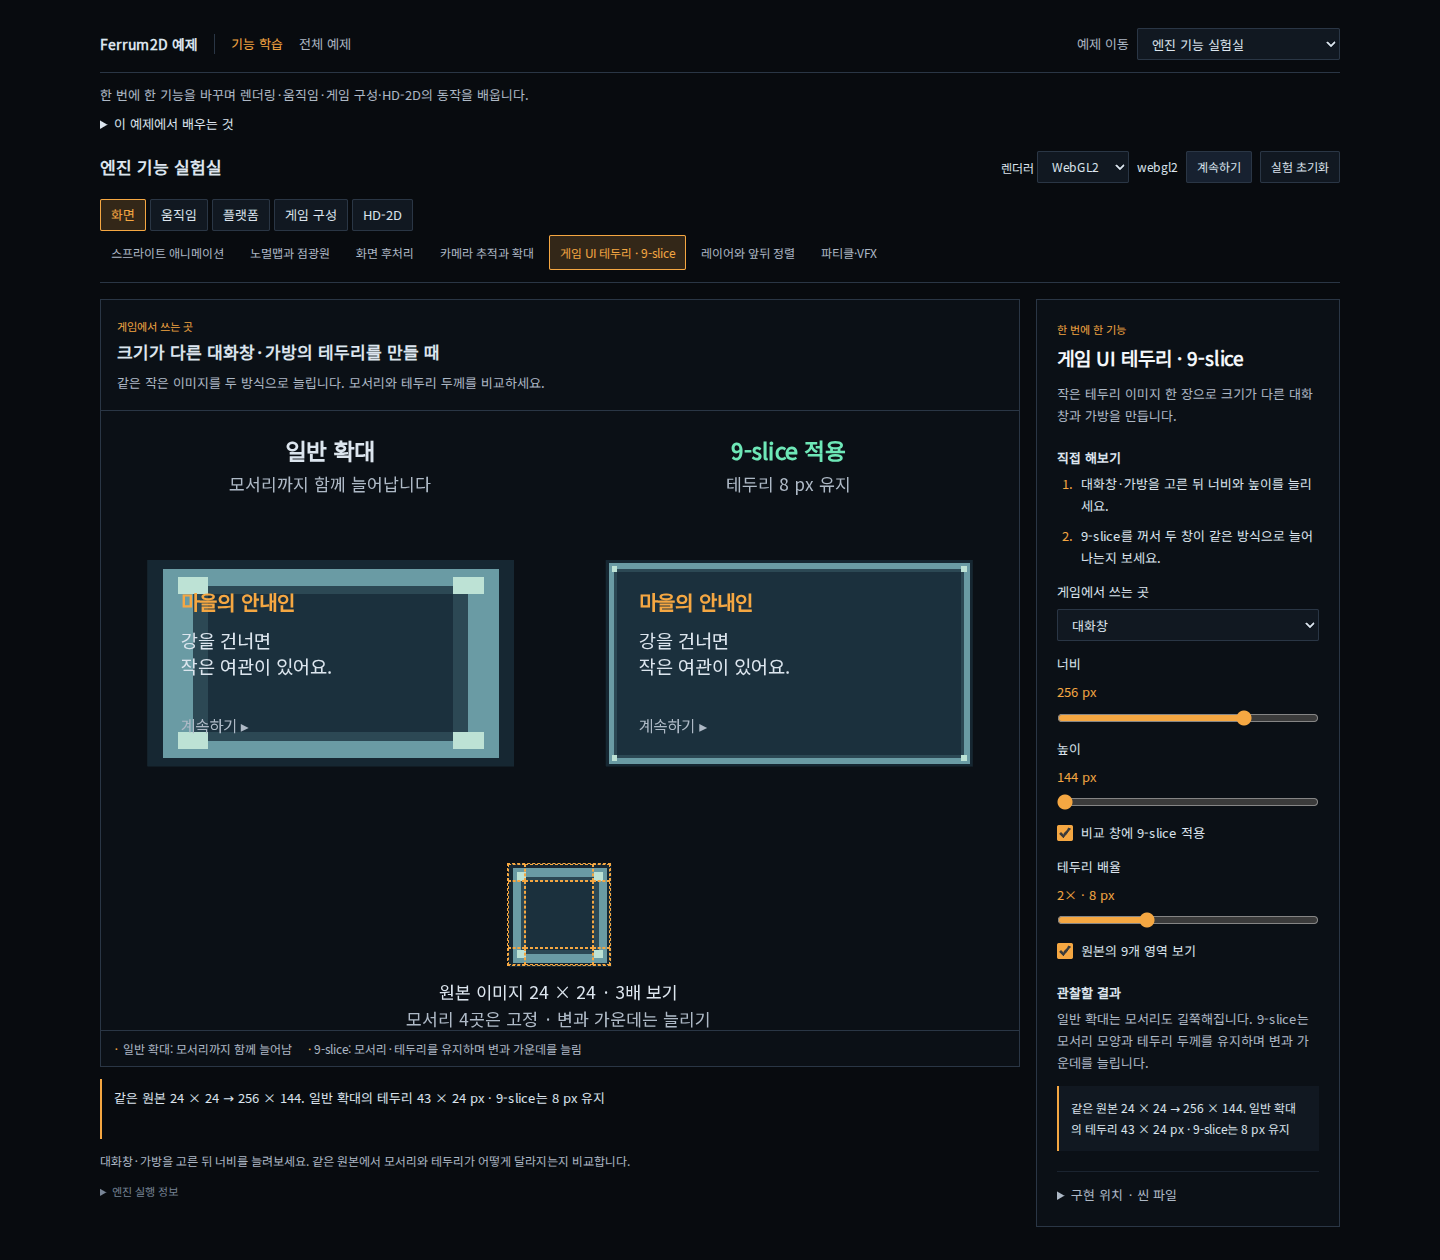
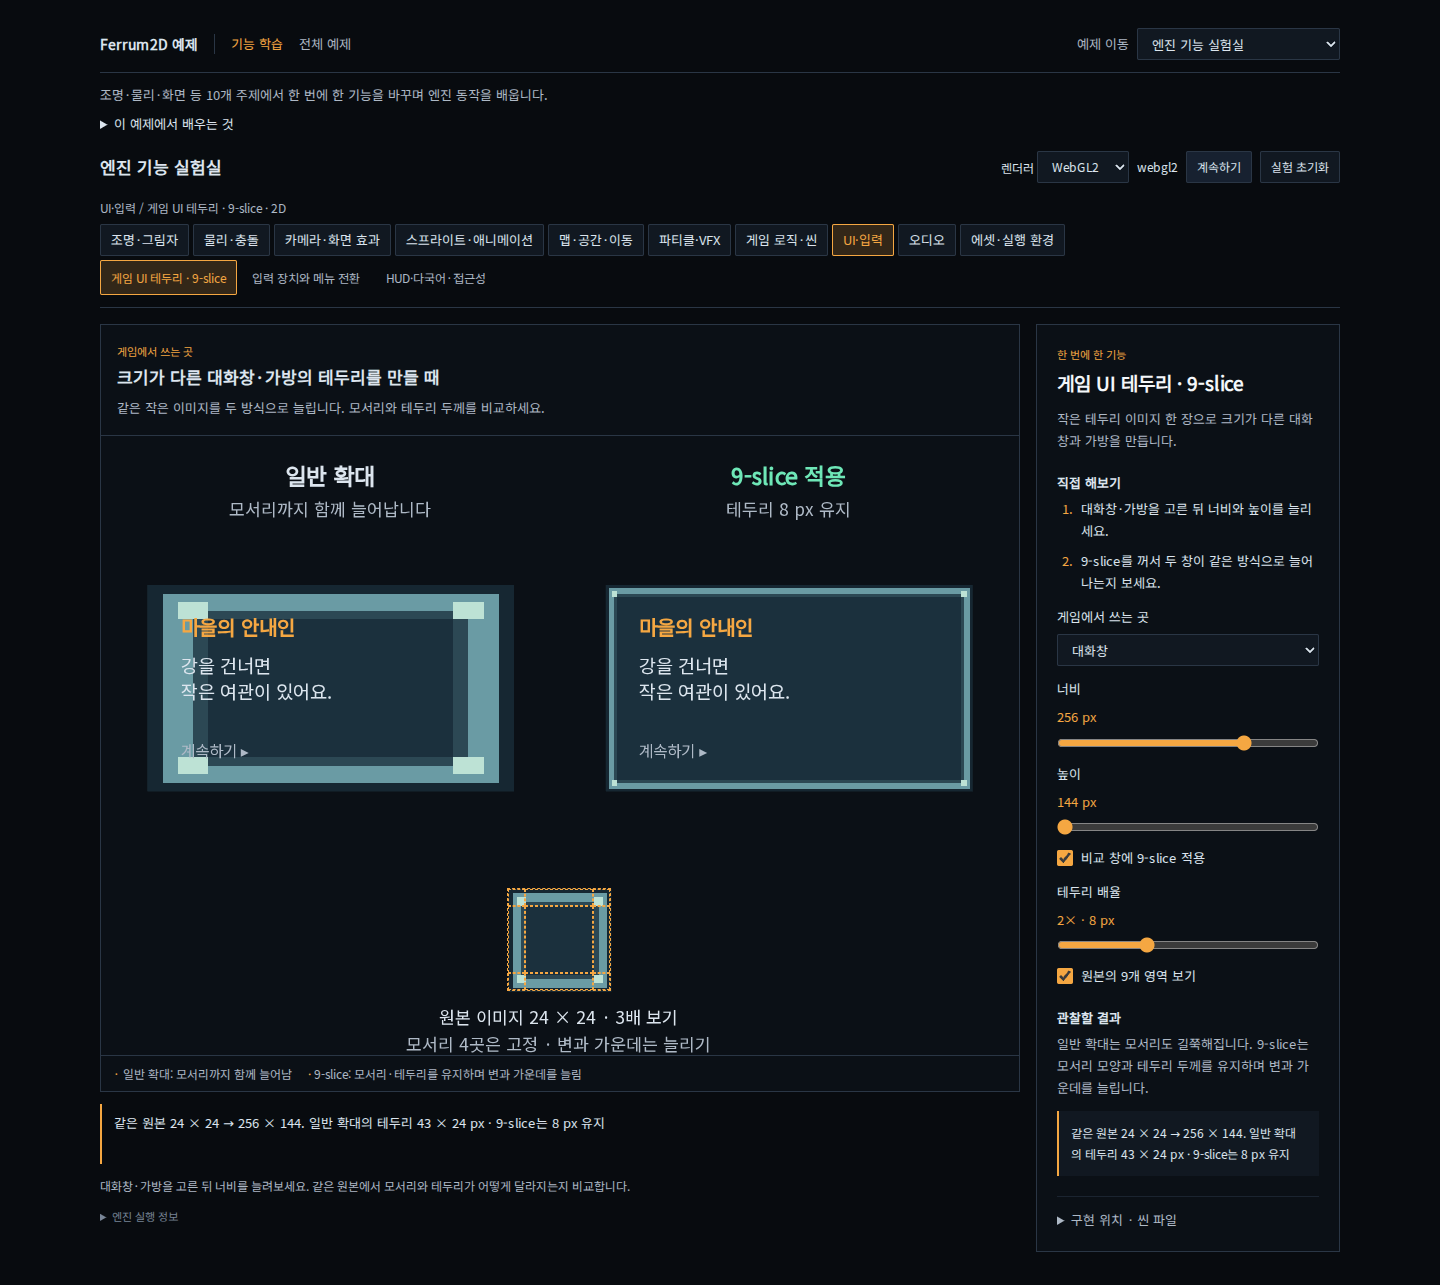
docs(examples): sync topic guides and production screenshots

diff --git a/docs/en/engine/showcase-hub.md b/docs/en/engine/showcase-hub.md
@@ -4,13 +4,13 @@
 
 Use the [public demo site](https://silbaram.github.io/ferrum2d/) to try engine features without installing tools.
 The Feature Lab separates each topic into a small scene with controls, observations, and implementation API names.
-All 26 topics explain a game use case, ordered steps, object roles, and a visual legend. Primary actions sit next to the scene.
+All 30 experiments explain a game use case, ordered steps, object roles, and a visual legend. Primary actions sit next to the scene.
 Frame strips, camera bounds, and loading dashboards expose the comparison; dialogue and HUD use the actual engine UI inside the game view.
 Technical statistics are available under a collapsed details section. The hub cards also show practical use cases.
 To run it from the engine source, use `pnpm dev:starter-runtime`.
 
-The hub follows **focused features → deeper physics → game applications**, with authoring tools in a separate section.
-Search and category filters help locate experiments. Game and lab examples share navigation, typography, colors, instructions, observations, and related experiments.
+The hub follows **topic-based experiments → game applications**, with authoring tools in a separate section.
+Ten topics cover lighting, physics, cameras, sprites, world movement, VFX, gameplay, UI/input, audio, and runtime assets. 2D/HD-2D tags are independent filters. The hub includes all seven physics scenarios, providing 37 direct experiment links. Search and topic filters help locate experiments. Game and lab examples share navigation, typography, colors, instructions, observations, and related experiments.
 `examples/shared/exampleCatalog.json` defines example roles; `featureCatalog.json` defines individual experiments.
 Minimal, the original shooter starter, and Engine Playground remain reference/test routes outside the main catalog.
 
@@ -27,8 +27,8 @@ Each link opens the corresponding experiment in Starter Runtime. Reset restores 
 | [Navigation and obstacles](https://silbaram.github.io/ferrum2d/starter-runtime/?feature=navigation) | Select a destination across a wall and observe the native route around it. |
 | [Physics materials](https://silbaram.github.io/ferrum2d/starter-runtime/?feature=physics) | Launch rubber and clay balls with the same impulse to compare bounce and damping. |
 | [Normal-map lighting](https://silbaram.github.io/ferrum2d/starter-runtime/?feature=lighting) | Move a point light and compare lighting with and without surface normals. |
-| [Post-processing](https://silbaram.github.io/ferrum2d/starter-runtime/?feature=postprocess) | Compare the original scene, bloom, and CRT effects. |
-| [Camera tracking and zoom](https://silbaram.github.io/ferrum2d/starter-runtime/?feature=camera) | Compare fixed and tracking cameras while changing zoom. |
+| [Post-processing](https://silbaram.github.io/ferrum2d/starter-runtime/?feature=postprocess) | Compare the original with bloom, CRT, vignette, glitch, pixel-art color, and fade, including intensity. |
+| [Camera tracking and zoom](https://silbaram.github.io/ferrum2d/starter-runtime/?feature=camera) | Compare fixed/tracking cameras, zoom, a short screen impulse, and world bounds. |
 | [9-slice borders](https://silbaram.github.io/ferrum2d/starter-runtime/?feature=nine-slice) | Compare ordinary image scaling against panels that preserve corner thickness. |
 | [Tilemaps and collision](https://silbaram.github.io/ferrum2d/starter-runtime/?feature=tilemap) | Edit wall/floor tiles and observe rendering and native collision updating together. |
 | [Drawing layers](https://silbaram.github.io/ferrum2d/starter-runtime/?feature=layers) | Change overlapping objects' drawing order without moving them. |
@@ -47,11 +47,15 @@ Each link opens the corresponding experiment in Starter Runtime. Reset restores 
 | [HD-2D movement](https://silbaram.github.io/ferrum2d/starter-runtime/?feature=hd2d-movement) | Traverse slopes and floors and ride vertical/horizontal platforms. |
 | [AI pursuit and combat](https://silbaram.github.io/ferrum2d/starter-runtime/?feature=ai-combat) | Observe obstacle avoidance, melee damage, and ranged projectiles. |
 | [Parent/child attachments](https://silbaram.github.io/ferrum2d/starter-runtime/?feature=attachments) | Move or rotate a cart and detach/reattach a child object. |
-| [HD-2D lights, shadows, and fog](https://silbaram.github.io/ferrum2d/starter-runtime/?feature=hd2d-environment) | Move lights and compare shadows and distance fog. |
+| [HD-2D lights, shadows, and fog](https://silbaram.github.io/ferrum2d/starter-runtime/?feature=hd2d-environment) | Compare point/sun/mixed lighting, sun direction, hard/PCF shadows, fog, bloom, AO, DOF, and ACES. |
 | [Destructible terrain](https://silbaram.github.io/ferrum2d/starter-runtime/?feature=destructible-terrain) | Erase a mask, drop a ball through the opening, and observe collider chunk updates. |
 
 Audio may require a click or key press before the browser permits playback.
 WebGPU is optional; the default renderer is WebGL2.
+| [Area queries and shape casts](https://silbaram.github.io/ferrum2d/starter-runtime/?feature=physics-queries) | Compare circle/AABB overlap and moving-circle casts using native hits. |
+| [Pixel resolution and snapping](https://silbaram.github.io/ferrum2d/starter-runtime/?feature=pixel-perfect) | Compare virtual resolution and fractional positions with display snapping. |
+| [Sprite appearance](https://silbaram.github.io/ferrum2d/starter-runtime/?feature=sprite-materials) | Compare palette replacement, hit flash, and outline on the same source images. |
+| [Rendering and GPU resources](https://silbaram.github.io/ferrum2d/starter-runtime/?feature=rendering) | Compare command/draw counts and texture allocation/release; memory values are estimates. |
 
 ## Integrated examples and authoring tools
 

diff --git a/README.en.md b/README.en.md
@@ -19,19 +19,23 @@ This is a real browser capture of the viewer with example village content.
 
 ## Try individual engine features
 
-The [**Engine Feature Lab**](https://silbaram.github.io/ferrum2d/starter-runtime/) provides **26 independent experiments**.
+The [**Engine Feature Lab**](https://silbaram.github.io/ferrum2d/starter-runtime/) provides **30 independent experiments**.
 Each experiment connects controls and visible results with implementation APIs.
 
 ![Feature Lab comparing ordinary scaling with 9-slice border preservation](docs/development/quality/screenshots/engine-feature-lab.png)
 
-| Interest | Topics | Try it |
+| Topic | Experiments | Try it |
 | --- | --- | --- |
-| Rendering | Animation, normal lighting, post-processing, 9-slice, layers, particles | [9-slice](https://silbaram.github.io/ferrum2d/starter-runtime/?feature=nine-slice) · [Lighting](https://silbaram.github.io/ferrum2d/starter-runtime/?feature=lighting) |
-| Movement and collision | Navigation, physics materials, cameras, tile collision | [Navigation](https://silbaram.github.io/ferrum2d/starter-runtime/?feature=navigation) · [Materials](https://silbaram.github.io/ferrum2d/starter-runtime/?feature=physics) |
-| Game progression | Scene transitions, interaction, saving, dialogue/quests, projectiles, cutscenes | [Dialogue](https://silbaram.github.io/ferrum2d/starter-runtime/?feature=dialogue) · [Save/load](https://silbaram.github.io/ferrum2d/starter-runtime/?feature=save-load) |
-| Platform and accessibility | Spatial audio, input switching, HUD/localization/accessibility | [Input](https://silbaram.github.io/ferrum2d/starter-runtime/?feature=input) · [Audio](https://silbaram.github.io/ferrum2d/starter-runtime/?feature=audio) |
-| Content integration | Asset loading, level streaming, parent/child attachments | [Streaming](https://silbaram.github.io/ferrum2d/starter-runtime/?feature=streaming) · [Attachments](https://silbaram.github.io/ferrum2d/starter-runtime/?feature=attachments) |
-| Spatial gameplay | HD-2D movement, combat AI, lighting/shadows/fog, terrain destruction | [HD-2D movement](https://silbaram.github.io/ferrum2d/starter-runtime/?feature=hd2d-movement) · [Terrain destruction](https://silbaram.github.io/ferrum2d/starter-runtime/?feature=destructible-terrain) |
+| Lighting and shadows | Point lights, normals, directional sun, shadows | [Open](https://silbaram.github.io/ferrum2d/starter-runtime/?feature=hd2d-environment) |
+| Physics and collision | Materials, colliders, joints, CCD, overlap/shape queries | [Open](https://silbaram.github.io/ferrum2d/starter-runtime/?feature=physics-queries) |
+| Cameras and screen effects | Tracking, zoom, shake, bounds, post-processing, pixel snapping | [Open](https://silbaram.github.io/ferrum2d/starter-runtime/?feature=postprocess) |
+| Sprites and animation | Clips, events, layers, palettes, outlines | [Open](https://silbaram.github.io/ferrum2d/starter-runtime/?feature=sprite-materials) |
+| Maps and movement | Tiles, routes, slopes, floors, platforms, attachments | [Open](https://silbaram.github.io/ferrum2d/starter-runtime/?feature=hd2d-movement) |
+| Particles and VFX | Sparks, dust, trails and particle lifetime | [Open](https://silbaram.github.io/ferrum2d/starter-runtime/?feature=particles) |
+| Gameplay and scenes | Transitions, combat, saves, dialogue, cutscenes | [Open](https://silbaram.github.io/ferrum2d/starter-runtime/?feature=scenes) |
+| UI and input | HUD, accessibility, 9-slice, input devices | [Open](https://silbaram.github.io/ferrum2d/starter-runtime/?feature=hud) |
+| Audio | Spatial position and distance attenuation | [Open](https://silbaram.github.io/ferrum2d/starter-runtime/?feature=audio) |
+| Assets and runtime | Loading, cache, streaming, GPU resource lifetime | [Open](https://silbaram.github.io/ferrum2d/starter-runtime/?feature=rendering) |
 
 [Full English feature guide](docs/en/engine/showcase-hub.md) · [Seven advanced physics scenarios](https://silbaram.github.io/ferrum2d/physics-sandbox/)
 
@@ -100,7 +104,7 @@ See [pixel editing and saving conditions (Korean)](apps/placement-viewer/README.
 
 ## Example gallery
 
-Follow **focused features → deeper physics → game applications** in the [hub](https://silbaram.github.io/ferrum2d/).
+Follow **topic-based experiments → game applications** in the [hub](https://silbaram.github.io/ferrum2d/).
 Game and lab examples share navigation and show instructions, observations, and related experiments. Authoring tools have a separate section and retain their workspace UI.
 Minimal and legacy integrated demos remain reference/test fixtures outside the main catalog. See [example roles and local execution](examples/README.md).
 
@@ -133,7 +137,7 @@ After [building the source](#build-the-engine-source), run a command from the re
 
 | Example | Command | Source |
 | --- | --- | --- |
-| Feature Lab, 26 independent experiments | `pnpm dev:starter-runtime` | [starter-runtime](examples/starter-runtime/) |
+| Feature Lab, 30 independent experiments | `pnpm dev:starter-runtime` | [starter-runtime](examples/starter-runtime/) |
 | 2D garden / HD-2D village | `pnpm dev:placement-viewer`, then `?scene=garden` / `?scene=village` | [placement-viewer](apps/placement-viewer/) |
 | Top-down Shooter | `pnpm dev:topdown` | [topdown-shooter](examples/topdown-shooter/) |
 | Physics Sandbox | `pnpm dev:physics-sandbox` | [physics-sandbox](examples/physics-sandbox/) |

diff --git a/docs/development/quality/screenshots/README.md b/docs/development/quality/screenshots/README.md
@@ -8,6 +8,9 @@
 도트 쇼케이스는 2026-11-03에 `1b99e4f` 이후 작업 트리의 production 빌드를 같은 Chromium에서 캡처했다.
 Shooter 세트는 2026-11-08에 `9dc5319` 이후 `feat/topdown-shooter-refresh` 작업 트리의 Neon Outpost production 빌드로 갱신했다.
 기능 실험실 이미지는 2026-11-08에 `9dc5319` 이후 작업 트리의 9-slice 대화창 비교 production 빌드로 갱신했다.
+홈·기능 실험실 세트는 2026-11-09에 `3e8eae9` 기준 `feat/topic-based-examples` 작업 트리의 production 빌드로 갱신했다.
+홈은 10개 주제·37개 진입점, 기능 실험실은 같은 주제 탐색과 9-slice 비교를 보여준다.
+캡처 환경·실행 상태·SHA-256은 `artifacts/readme-refresh/capture-feature-lab.json`에 기록한다.
 
 Breakout·Platformer·Physics Lab 세트는 2026-11-08에 같은 작업 트리의 production 빌드를 UI로 일시정지한 뒤 캡처했다.
 
@@ -77,7 +80,7 @@ WebGL2·1440×1000·DPR 1이며 기능 실험실은 9-slice 대화창 기본 설
 9-slice 설명 보강 후 `engine-feature-lab.png`는 별도 검증의 `nine-slice.png`로 갱신했다.
 재생성은 starter-runtime 빌드 후 `node tests/smoke/feature-examples-smoke.mjs --nine-slice-only`를 실행하고,
 `artifacts/nine-slice-example/browser/verification.json`의 `run`에서 `nine-slice.png`를 복사한다.
-26개 기능의 공통 학습 안내를 적용한 뒤에는 홈과 기능 실험실 이미지만 함께 갱신한다.
+30개 기능의 공통 학습 안내를 적용한 뒤에는 홈과 기능 실험실 이미지만 함께 갱신한다.
 
 ```bash
 node scripts/tools/capture-readme-screenshots.mjs --only=feature-lab

diff --git a/docs/en/engine/user-guide.md b/docs/en/engine/user-guide.md
@@ -39,7 +39,7 @@ Run `pnpm build` before the first launch or after modifying Rust. Use the addres
 
 | Example | Command | What to inspect |
 | --- | --- | --- |
-| Engine Feature Lab | `pnpm dev:starter-runtime` | 26 independent experiments with controls, observations, and API names |
+| Engine Feature Lab | `pnpm dev:starter-runtime` | 30 independent experiments with controls, observations, and API names |
 | 2D garden and HD-2D village | `pnpm dev:placement-viewer` | Use `?scene=garden` or `?scene=village` for placement and game preview |
 | Physics Sandbox | `pnpm dev:physics-sandbox` | Seven focused scenarios and collision/solver diagnostics |
 | Top-down Shooter | `pnpm dev:topdown` | Movement, aiming, projectiles, waves, scoring, and Game Spec |
@@ -47,7 +47,7 @@ Run `pnpm build` before the first launch or after modifying Rust. Use the addres
 | Platformer | `pnpm dev:platformer` | Jumping, one-way platforms, and moving platforms |
 | Little Garden of Light | `pnpm dev:pixel-art` | Editable pixel sources, collection, lighting, palettes, and effects |
 
-Follow **focused features → deeper physics → game applications**. Authoring tools have a separate section.
+Follow **topic-based experiments → game applications**. Authoring tools have a separate section.
 The hub provides feature search and categories. Game and lab examples share navigation, instructions, observations, and related experiments.
 Run `pnpm build && pnpm build:pages && pnpm preview:examples` to browse the whole suite locally.
 A standalone Vite server explains how to launch the suite rather than linking to apps it cannot serve.

diff --git a/docs/README.md b/docs/README.md
@@ -19,7 +19,7 @@ Pages 메뉴는 현재 언어의 문서만 표시하며, 번역이 없는 문서
 | 순서 | 문서 | 알 수 있는 것 |
 | --- | --- | --- |
 | 1 | [사용자 설명서](engine/user-guide.md) | 엔진의 현재 기능, 예제 실행, 뷰어 편집·실행·저장 범위 |
-| 2 | [기능·예제 지도](engine/showcase-hub.md) | 설치 없이 체험하는 26개 기능 실험과 통합 예제 |
+| 2 | [기능·예제 지도](engine/showcase-hub.md) | 설치 없이 체험하는 30개 기능 실험과 통합 예제 |
 | 3 | [개발자 퀵스타트](engine/developer-quickstart.md) | GitHub Release 패키지로 새 게임을 만들고 실행·검증하는 방법 |
 | 4 | [AI 기능 안내](engine/ai-feature-guide.md) · [Public API](engine/public-api.md) | 요구사항을 실제 공개 API와 상세 계약에 연결하는 방법 |
 
